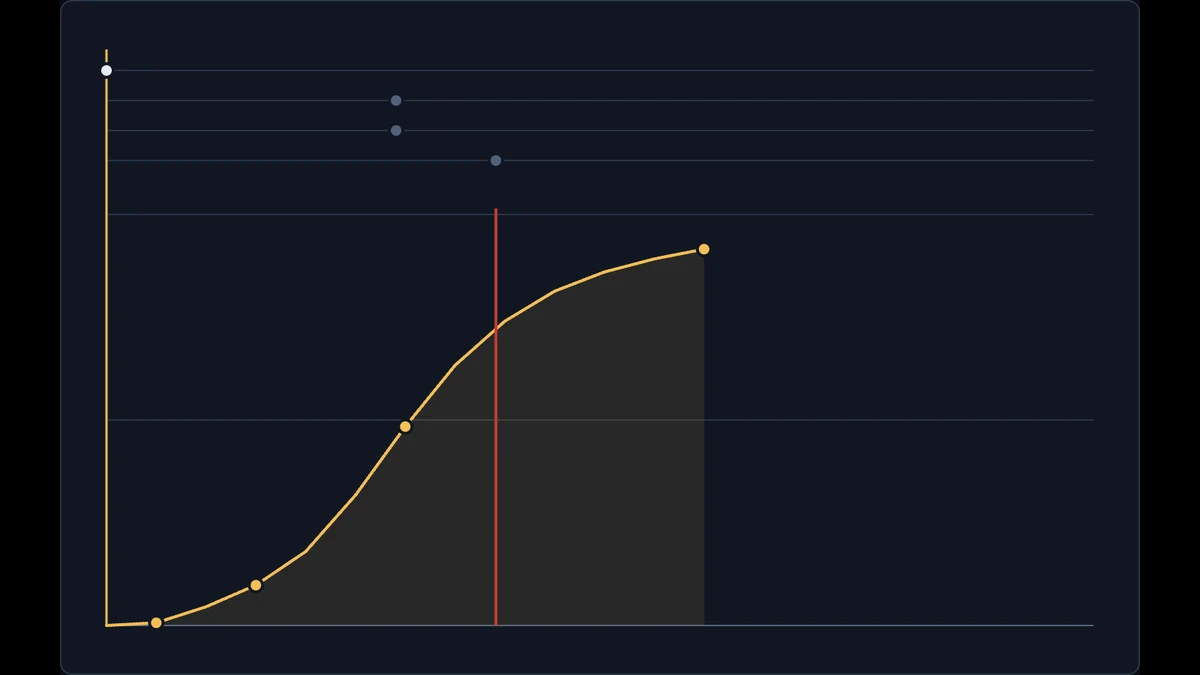
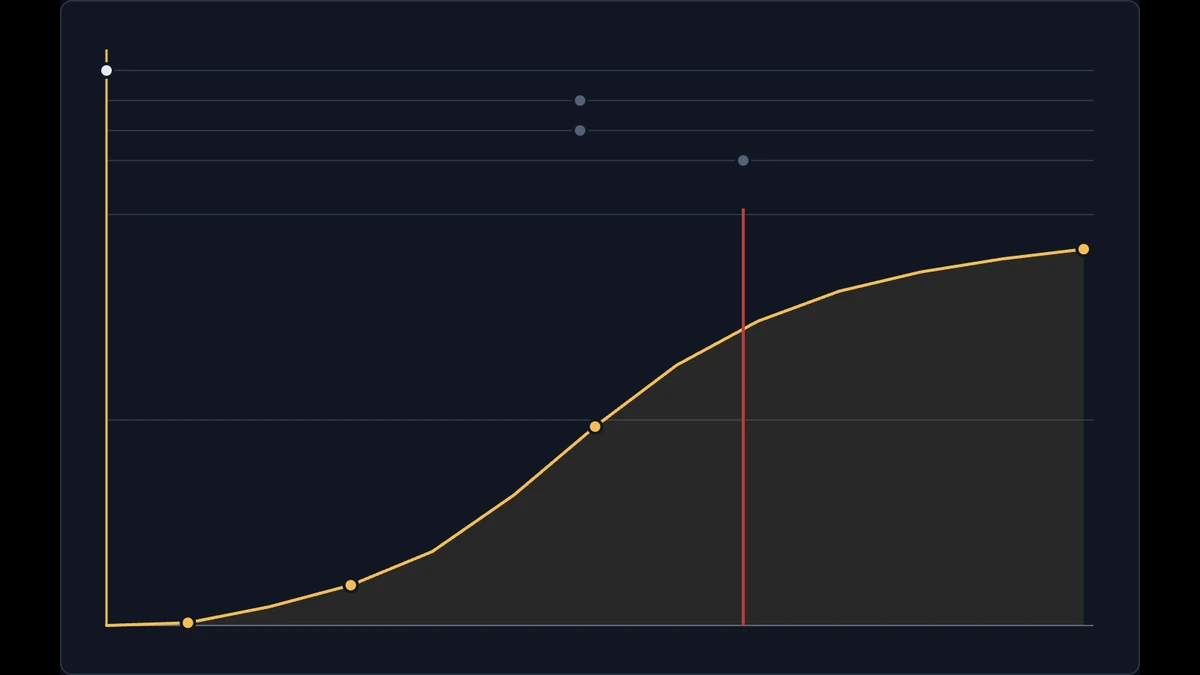
Thumbnail: cut the chart where the forecast ends
The time axis runs to a year after the case ended, but a forecast at
filing covers only the first 12 months, so the right of the thumbnail was
empty. The chart is now drawn wider, by as much as brings the forecast's
last dot, whole, to where the lanes end, and cut there.

diff --git a/scripts/stills.py b/scripts/stills.py
@@ -5,7 +5,8 @@
 - thumb.webp and thumb-light.webp: the Forecast tab's chart on the case it opens on, for the project
   card (Mark, 2026-11-26: it looks better there than the map). It has no text (Mark, 2026-11-26:
   "the thumbnails should show no text and only visual indications of the demo itself"): no heading
-  or boxes, and none of the chart's labels, so the chart fills the stage. The stage is shot at
+  or boxes, and none of the chart's labels, so the chart fills the stage. It ends where the forecast
+  does, a year after filing (Mark, 2026-11-27: the empty right side looked strange). The stage is shot at
   720 x 450, 16:10, the card's shape, centred on the theme's page colour at 1200 x 675. The card
   trims those margins.
 - og.jpg: the Forecast tab, with its text, at 1200 x 630, dark only, for link previews.
@@ -63,6 +64,21 @@ ROOM = """() => {
     height - axis.y1.baseVal.value - now.y1.baseVal.value];
 }"""
 REACH = "[data-demo] .sd-forecast .sd-chart-box { margin: 0 0 -%.1fpx -%.1fpx; }"
+
+# The time axis runs to a year after the case ended, but a forecast at filing covers only its first
+# year, which would leave the right of the thumbnail empty. So the chart is drawn wider, by as much as
+# brings the forecast's last dot, whole, to where the lanes end, and cut there.
+CROP = """() => {
+  const svg = document.querySelector('.sd-forecast .sd-chart');
+  const lane = svg.querySelector('.sd-lane');
+  const [left, right] = [lane.x1.baseVal.value, lane.x2.baseVal.value];
+  const last = [...svg.querySelectorAll('.sd-forecast-dot')].at(-1);
+  const end = last.cx.baseVal.value;
+  const size = last.r.baseVal.value + parseFloat(getComputedStyle(last).strokeWidth);
+  const wider = (right - left) * ((right - left - size) / (end - left) - 1);
+  return [wider, wider + svg.width.baseVal.value - right];
+}"""
+CUT = "[data-demo] .sd-forecast .sd-chart-box { margin-right: -%.1fpx; clip-path: inset(0 %.1fpx 0 0); }"
 
 
 class QuietHandler(http.server.SimpleHTTPRequestHandler):
@@ -122,9 +138,12 @@ def render(browser, url, errors):
     show_tab(page, "Forecast")
     page.wait_for_selector(".sd-forecast .sd-forecast-line")
     stills["og", "dark"] = shoot(page, "dark", 800, 420)
-    # The frame redraws only when the stage changes size, so the room is measured on the link
-    # preview's chart, which keeps the same, and the thumbnail's size brings the redraw.
+    # The frame redraws only when the stage changes size, so each step changes it: the room is
+    # measured on the link preview's chart, which keeps the same, and the crop a pixel short of the
+    # thumbnail's height, which leaves its widths as they'll be.
     bare = BARE + REACH % tuple(reversed(page.evaluate(ROOM)))
+    style(page, "dark", CSS % (720, 449) + bare)
+    bare += CUT % tuple(page.evaluate(CROP))
     for theme in THEMES:
         stills["thumb", theme] = shoot(page, theme, 720, 450, bare)
     page.close()

diff --git a/docs/plan.md b/docs/plan.md
@@ -964,7 +964,8 @@ Added with Mark on 2026-11-25, after the first four PRs: weighting recent traini
   - **Asked for by Mark on 2026-11-26,** through the site's session: "As a general rule the thumbnails should show no text and only visual indications of the demo itself. For the court case one, the plot is fine, but it should be stripped of all the text and numbers for the thumbnail."
   - **`thumb.webp` and `thumb-light.webp`** are the Forecast tab's chart alone, on 18 C 33/2024 at Jihlava at filing as before: the lanes and their event dots, the line of the day of the forecast, the gridlines, the forecast's curve, dots and shaded area, and the line of the day the case ended. The heading, the explanation, the four boxes, the stages' names, the axes' numbers and titles, and the "Forecast" and "Ended, day 238" labels are gone. `static.webp` and `og.jpg` don't change.
   - **How:** `scripts/stills.py` hides them with CSS for the thumbnail only, so the chart fills the stage. The chart still keeps room for its labels, 82 px more on the left than on the right and 18 px more below than above, so its box reaches that far past the stage's padding, and the drawing sits evenly in the frame. The room is read off the drawn chart, not copied from `views/forecast.js`. The frame redraws only when the stage changes size, so it's measured before the stage takes the thumbnail's size.
-  - **Checked** in both themes: no text, the drawing 45 px from the frame's sides and about 48 px from its top and bottom on the 1200 × 675 image, and 9.5 KB each (43 KB before). The bundle is 765 KB.
+  - **Cut at the forecast's end** (Mark, 2026-11-27: with the chart whole, the empty right side looked strange). The time axis runs to a year after the case ended, about 20 months here, but a forecast at filing covers only the first 12, so 40% of the width was empty. The thumbnail's chart is drawn wider, by as much as brings the forecast's last dot, whole, to where the lanes end, and cut there with a `clip-path`. The forecast runs across the whole frame, and the case ended at about two thirds of it. The crop is measured a pixel short of the thumbnail's height, so the last step's resize brings the redraw.
+  - **Checked** in both themes: no text, the drawing 45 px from the frame's sides and about 48 px from its top and bottom on the 1200 × 675 image, the last dot whole, and 11 KB each (43 KB before). The bundle is 768 KB.
 
 
 ### 9. Write-up: release status `live`
